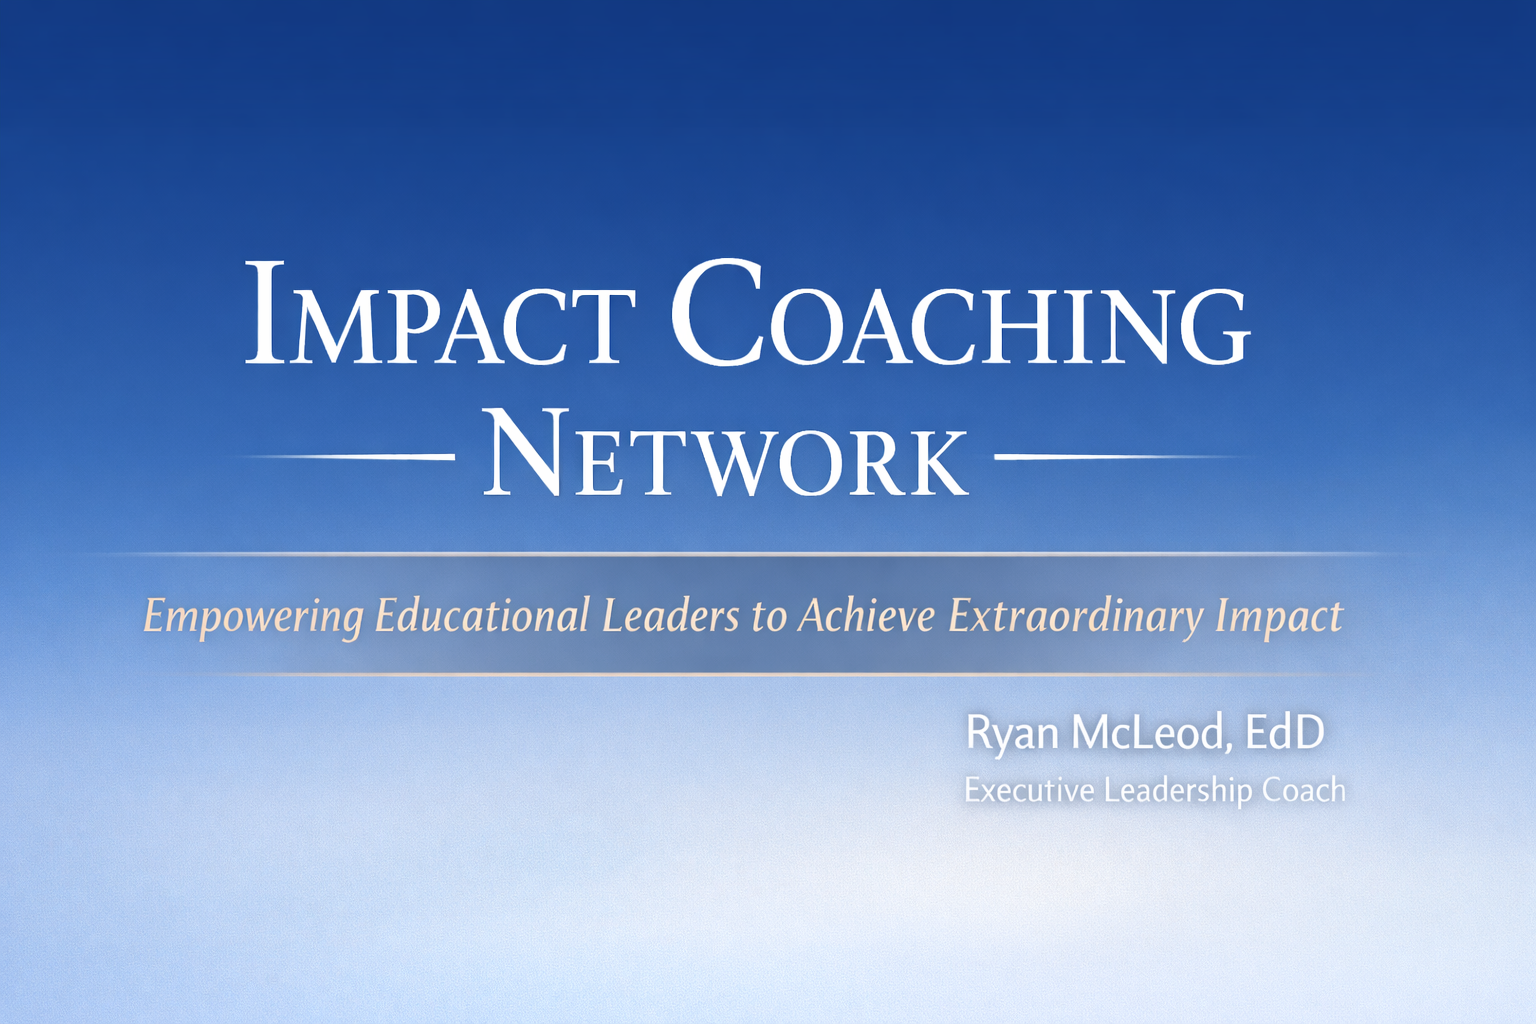
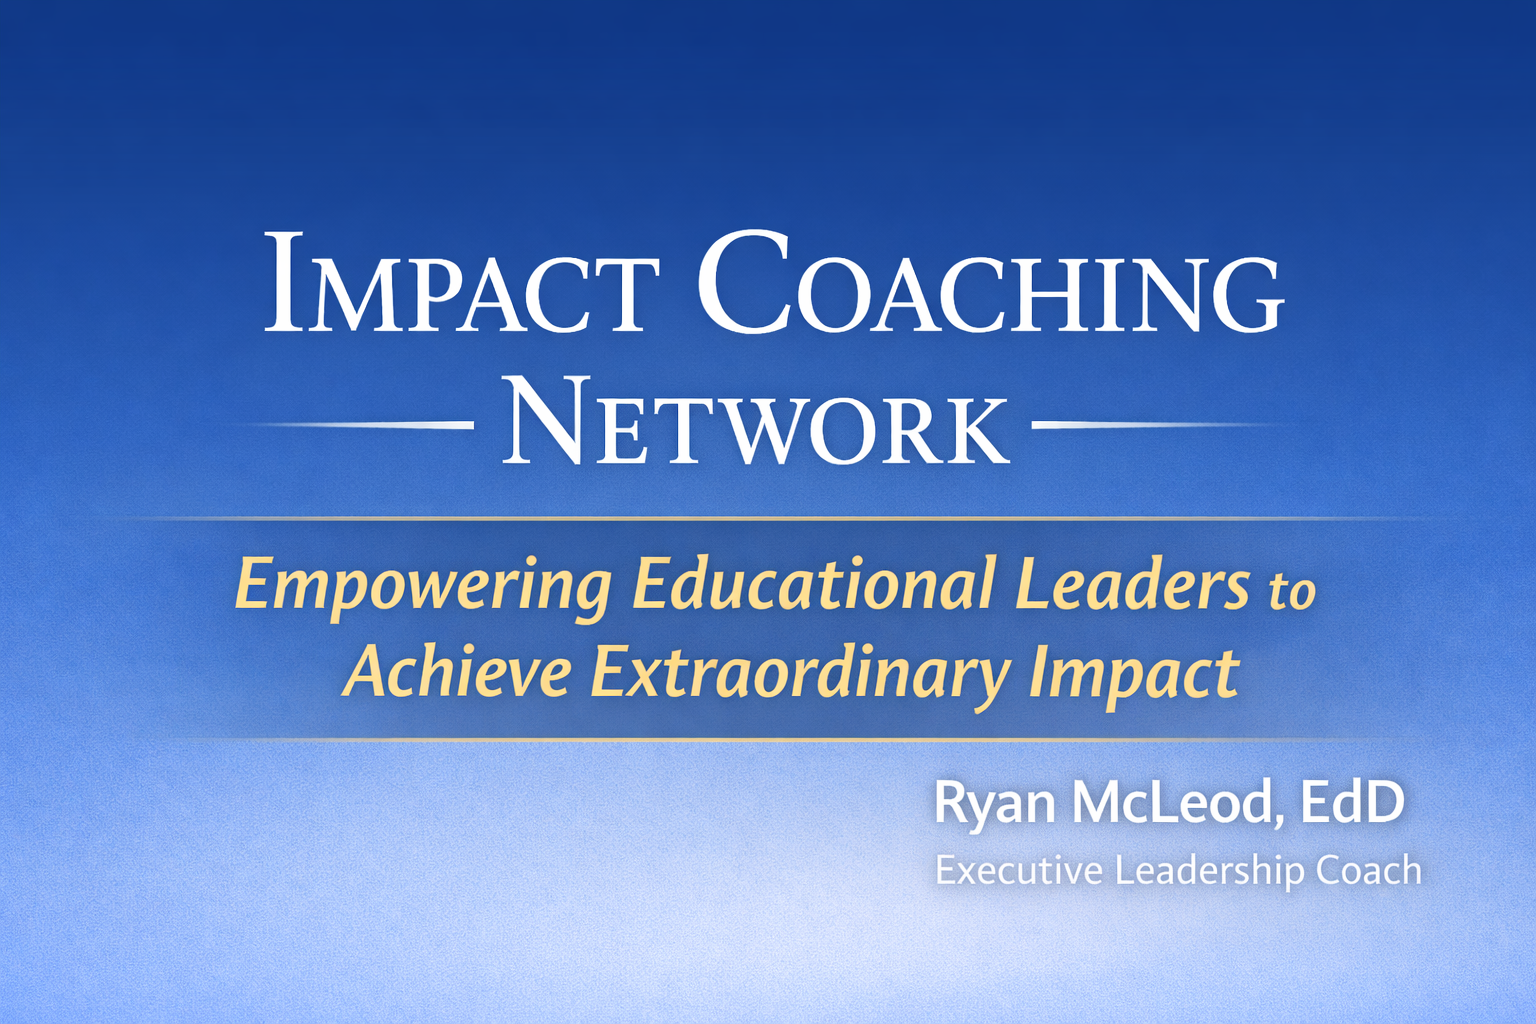
Add Open Graph image

diff --git a/src/App.jsx b/src/App.jsx
@@ -63,7 +63,7 @@ function App() {
       {/* HERO */}
       <section className="hero section">
         <div className="inner-narrow">
-          <h1>Executive Coaching for Leaders Maximizing Their Impact</h1>
+          <h1>Empowering Educational Leaders to Achieve Extraordinary Impact</h1>
           <p>
             Impact Coaching Network partners with high-performing leaders to sharpen executive presence, expand perspective, and design systems that sustain impact.
           </p>
